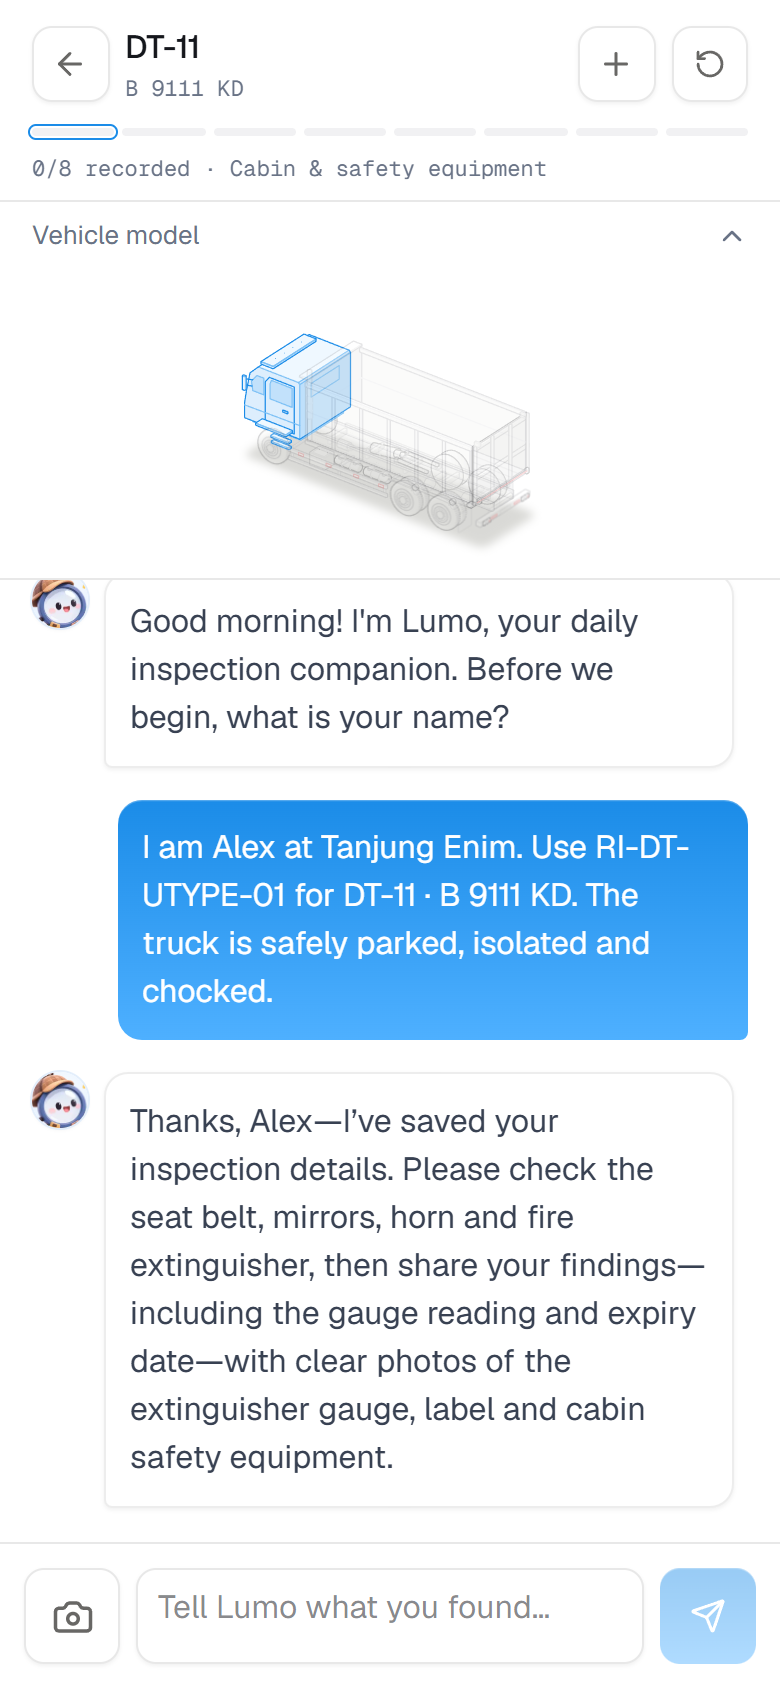
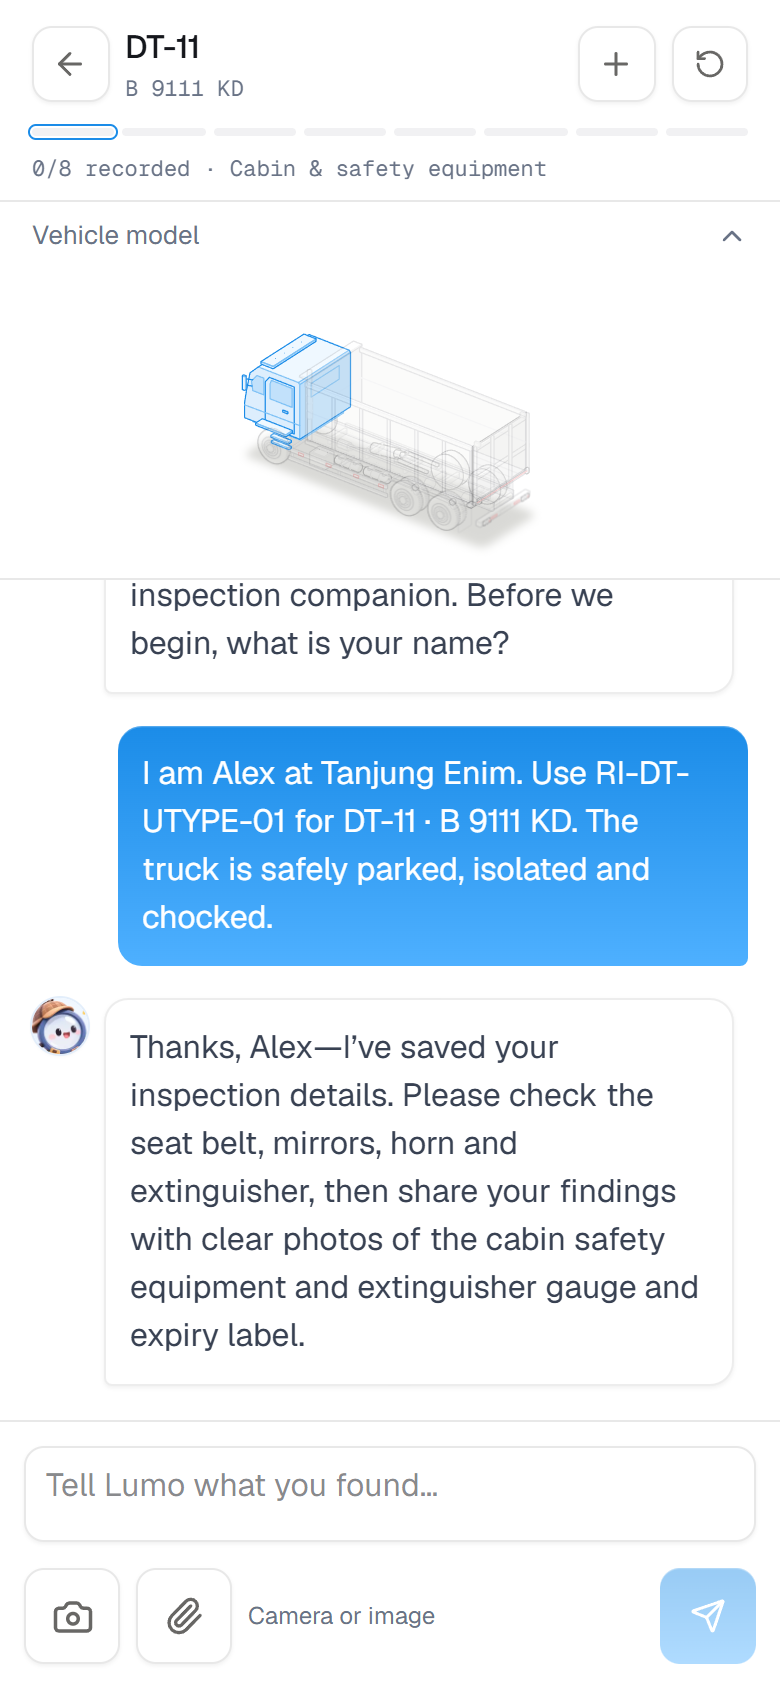
P0-10: add gallery image attachments alongside camera capture

diff --git a/pramana/components/inspector/InspectorChat.tsx b/pramana/components/inspector/InspectorChat.tsx
@@ -3,7 +3,7 @@ import { useEffect, useRef, useState } from "react";
 import Link from "next/link";
 import { useRouter, useSearchParams } from "next/navigation";
 import { useMutation, useQuery, useQueryClient } from "@tanstack/react-query";
-import { ArrowLeft, Camera, ChevronDown, ChevronUp, Plus, RotateCcw, Send, X } from "lucide-react";
+import { ArrowLeft, Camera, ChevronDown, ChevronUp, Paperclip, Plus, RotateCcw, Send, X } from "lucide-react";
 import { api, compressImage, fmtDate, postJson, postTurn } from "@/lib/client";
 import { counts, itemsOf, nextItem, progress, unitCode, verdict, type ReportView } from "@/lib/rules";
 import type { ChatMessage, StatusItem, TurnResponse } from "@/lib/contracts";
@@ -29,7 +29,7 @@ export function InspectorChat() {
   return id ? <Conversation key={id} id={id} create={create}/> : <div className="p-5"><Spinner label="Opening your inspection…"/></div>;
 }
 function Conversation({ id, create }: { id: string; create: () => Promise<void> }) {
-  const cache = useQueryClient(), end = useRef<HTMLDivElement>(null), input = useRef<HTMLInputElement>(null);
+  const cache = useQueryClient(), end = useRef<HTMLDivElement>(null), input = useRef<HTMLInputElement>(null), attachment = useRef<HTMLInputElement>(null);
   const [text, setText] = useState(''), [photo, setPhoto] = useState<File>(), [photoUrl, setPhotoUrl] = useState(''), [preparing, setPreparing] = useState(false), [photoError, setPhotoError] = useState<string | null>(null);
   const [showModel, setShowModel] = useState(true), [status, setStatus] = useState(''), [optimistic, setOptimistic] = useState<ChatMessage[]>([]);
   const query = useQuery({ queryKey: ['laporan', id], queryFn: () => api<ReportView>(`/api/laporan/${encodeURIComponent(id)}`) });
@@ -38,7 +38,7 @@ function Conversation({ id, create }: { id: string; create: () => Promise<void> 
     const body = new FormData(); body.set('text', text); if (photo) body.set('file', photo);
     return postTurn<TurnResponse<ReportView>>(`/api/laporan/${id}/turn`, body, setStatus);
   }, onMutate: ({ text }) => { setOptimistic([{ id: 'pending', role: 'user', text: text || 'Photo attached', created_at: new Date().toISOString() }]); setStatus('Lumo is reading…'); }, onSuccess: reply => {
-    cache.setQueryData(['laporan', id], reply.data); setText(''); setPhoto(undefined); if (input.current) input.current.value = '';
+    cache.setQueryData(['laporan', id], reply.data); setText(''); setPhoto(undefined); if (input.current) input.current.value = ''; if (attachment.current) attachment.current.value = '';
   }, onSettled: () => { setOptimistic([]); void cache.invalidateQueries({ queryKey: ['laporan', id] }); } });
   useEffect(() => { if (!photo) { setPhotoUrl(''); return; } const url = URL.createObjectURL(photo); setPhotoUrl(url); return () => URL.revokeObjectURL(url); }, [photo]);
   useEffect(() => { end.current?.scrollIntoView({ block: 'end', behavior: 'instant' }); }, [report?.messages.length, turn.isPending]);
@@ -74,7 +74,12 @@ function Conversation({ id, create }: { id: string; create: () => Promise<void> 
         {!turn.isPending && !!last?.quick_replies?.length && <div className="flex gap-2 overflow-x-auto pb-3">{last.quick_replies.map(reply => <button key={reply} className="btn btn-secondary-field t-body-sm shrink-0 max-w-64 truncate" onClick={() => send(reply)} disabled={preparing}>{reply}</button>)}</div>}
         {photo && photoUrl && <div className="mb-2 flex items-center gap-2"><img src={photoUrl} alt="Photo ready to send" className="h-12 w-12 shrink-0 rounded object-cover"/><span className="t-caption-data muted flex-1">Photo ready · {Math.ceil(photo.size / 1024)} KB</span><button className={iconButton} aria-label="Remove photo" disabled={turn.isPending} onClick={() => { setPhoto(undefined); if (input.current) input.current.value = ''; }}><X size={16}/></button></div>}
         {preparing && <Spinner label="Preparing photo…"/>}
-        <form className="flex gap-2 items-end" onSubmit={e => { e.preventDefault(); send(); }}><input ref={input} type="file" accept="image/*" capture="environment" aria-label="Take an inspection photo" className="sr-only" disabled={turn.isPending || preparing} onChange={e => void choosePhoto(e.target.files?.[0])}/><button type="button" className={`${iconButton} !w-12 !h-12`} aria-label="Take a photo" disabled={turn.isPending || preparing} onClick={() => input.current?.click()}><Camera size={21}/></button><textarea rows={1} className="input t-body-lg min-w-0 flex-1 resize-none min-h-12 max-h-28" aria-label="Message Lumo" placeholder="Tell Lumo what you found…" value={text} disabled={turn.isPending || preparing} onChange={e => setText(e.target.value)} onKeyDown={e => { if (e.key === 'Enter' && !e.shiftKey && !e.nativeEvent.isComposing) { e.preventDefault(); send(); } }}/><button className="btn btn-primary w-12 h-12 p-0 shrink-0" aria-label="Send message" disabled={turn.isPending || preparing || (!text.trim() && !photo)}><Send size={18}/></button></form>
+        <form className="space-y-2" onSubmit={e => { e.preventDefault(); send(); }}>
+          <input ref={input} type="file" accept="image/*" capture="environment" aria-label="Take an inspection photo" className="sr-only" disabled={turn.isPending || preparing} onChange={e => { void choosePhoto(e.target.files?.[0]); e.target.value = ''; }}/>
+          <input ref={attachment} type="file" accept="image/*" aria-label="Attach an image" className="sr-only" disabled={turn.isPending || preparing} onChange={e => { void choosePhoto(e.target.files?.[0]); e.target.value = ''; }}/>
+          <textarea rows={1} className="input t-body-lg w-full resize-none min-h-12 max-h-28" aria-label="Message Lumo" placeholder="Tell Lumo what you found…" value={text} disabled={turn.isPending || preparing} onChange={e => setText(e.target.value)} onKeyDown={e => { if (e.key === 'Enter' && !e.shiftKey && !e.nativeEvent.isComposing) { e.preventDefault(); send(); } }}/>
+          <div className="flex items-center gap-2"><button type="button" className={`${iconButton} !w-12 !h-12`} aria-label="Take a photo" title="Take a photo" disabled={turn.isPending || preparing} onClick={() => input.current?.click()}><Camera size={21}/></button><button type="button" className={`${iconButton} !w-12 !h-12`} aria-label="Choose an image from gallery or files" title="Attach an image" disabled={turn.isPending || preparing} onClick={() => attachment.current?.click()}><Paperclip size={20}/></button><span className="t-label muted font-normal">Camera or image</span><button className="btn btn-primary w-12 h-12 p-0 shrink-0 ml-auto" aria-label="Send message" disabled={turn.isPending || preparing || (!text.trim() && !photo)}><Send size={18}/></button></div>
+        </form>
       </div>
     </>}
   </div>;

diff --git a/docs/verification/P0.md b/docs/verification/P0.md
@@ -135,7 +135,7 @@ language instructions.
 
 ## Next checkpoint
 
-P0-00 through P0-10 are implemented; P0-10 physical-device verification is pending.
+P0-00 through P0-10 are implemented; the user confirmed the physical-phone flow works.
 Continue with P0-11 through
 P0-13 in order. The dev server for this work is on port 3001 because 3000 was
 already occupied. Docker Desktop's Linux engine was verified available.
@@ -175,5 +175,7 @@ Local OpenAI configuration has passed real model calls and remains ignored by Gi
   TypeScript and production build passed.
 - Physical phone verification cannot be inferred from mobile emulation. A live
   HTTPS tunnel returned 200 and its URL was sent to the user for the P0-10 camera
-  check. Keep that checkbox pending until a real-device result is received.
+  check. The user confirmed no problems, and requested a separate image attachment
+  picker. Camera capture and gallery/files inputs now share compression, preview
+  and upload validation; neither removes the other option.
 

diff --git a/docs/tickets/P0-inti.md b/docs/tickets/P0-inti.md
@@ -288,7 +288,7 @@ Baca dulu: `docs/tickets/README.md` (Definition of Done), `docs/PRD.md` §4.1–
 
 **Selesai bila**
 - [x] Di 390×844 layout dan teks chat 16 px diverifikasi; screens/11–12 masih placeholder.
-- [ ] Foto dari kamera HP fisik (via tunnel) terkirim < 300 KB. Browser mobile sudah lulus: 159.925 bytes; verifikasi perangkat diminta dan dicatat untuk P0-12.
+- [x] Foto dari kamera HP fisik (via tunnel): pengguna mengonfirmasi tidak ada masalah. Browser mobile mengukur 159.925 bytes. Pemilih lampiran gambar ditambahkan sesuai masukan pengguna.
 - [x] Refresh di tengah P2H melanjutkan draft.
 
 **Prompt /goal**
